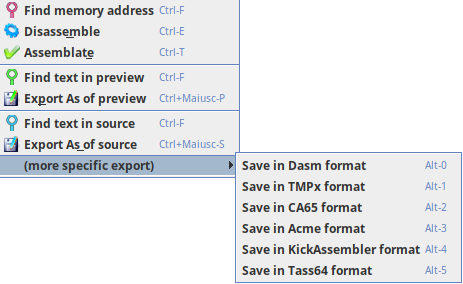
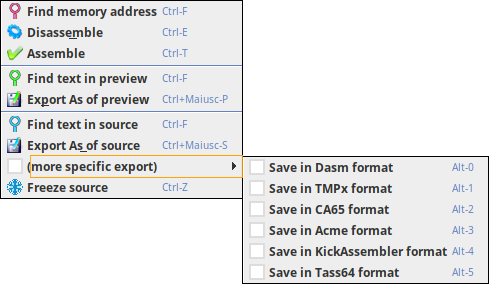
Fix and complete freeze

diff --git a/src/sw_emulator/swing/help/source.html b/src/sw_emulator/swing/help/source.html
@@ -39,12 +39,24 @@
  
  <h2>Find text in source</h2>
  <p>It opens a standard windows for inserting a text and find it inside the preview area. It has many option, like mark up all match, go backward and forward, match regular expression, whole word and lower/upper case.</p>
- <p align="center"><img src="./source4.png"></p>  
+   
  
  <h2>Export As of source</h2>
  <p> Export the actual preview source into a file.<br>
      You can even export as another assembler format by choosing the right one you need into sub-menus.
  </p>
+ 
+ <h2>Freeze source</h2>
+ <p> Le you make a freezed copy of the actual source, modify it, and let it there for documentation. You are asket to add a name of a freezed image.</p>
+ <p align="center"><img src="./source5.png"></p>
+ <p>You can use those buttons: </p>
+ <ul>
+     <li><b>Freeze</b>: freezes the source with the current compiler.</li>
+     <li><b>Freeze with</b>: freezes the source with the selected compiler.</li>
+     <li><b>Assemble</b>: assembles the freezed source with the selected compiler to be sure it is right.</li>
+     <li><b>Delete</b>: delete the selected freezed image.</li>
+ </ul>
+      
    <hr>
    
   <p>  A little panel shows the percentage of reverse engineering you have reached in your analisis: 0% is not understand, 100% is full understand.</p> 

diff --git a/src/sw_emulator/swing/JFreezeFrame.java b/src/sw_emulator/swing/JFreezeFrame.java
@@ -81,6 +81,7 @@ public class JFreezeFrame extends javax.swing.JFrame {
       this.disassembly=disassembly;    
       this.option=option;
       
+      rSyntaxTextAreaSource.setText("");
       popolateTable();
     }
 
@@ -489,7 +490,7 @@ public class JFreezeFrame extends javax.swing.JFrame {
     
       try {
         PrintWriter out=new PrintWriter(inputFile);
-        out.write(disassembly.source);
+        out.write(source);
         out.flush();
         out.close();
       } catch (Exception e) {
@@ -511,13 +512,13 @@ public class JFreezeFrame extends javax.swing.JFrame {
       }
       
       String res=compiler.compile(inputFile, outputFile);
-      
-      option.assembler=actual;
     
       JTextArea textArea = new JTextArea(50, 50);
       textArea.setText(res);
       textArea.setEditable(false);
       JScrollPane scrollPane = new JScrollPane(textArea);
       JOptionPane.showMessageDialog(this, scrollPane, "Result of "+option.assembler.getName()+" compilatation", JOptionPane.INFORMATION_MESSAGE);
+            
+      option.assembler=actual;
     }
 }

diff --git a/src/sw_emulator/swing/JDisassemblerFrame.java b/src/sw_emulator/swing/JDisassemblerFrame.java
@@ -2987,6 +2987,7 @@ public class JDisassemblerFrame extends javax.swing.JFrame implements userAction
 
     jMenuSource.add(jMenuSub);
 
+    jMenuItem3.setAccelerator(javax.swing.KeyStroke.getKeyStroke(java.awt.event.KeyEvent.VK_Z, java.awt.event.InputEvent.CTRL_DOWN_MASK));
     jMenuItem3.setIcon(new javax.swing.ImageIcon(getClass().getResource("/sw_emulator/swing/icons/mini/freeze.png"))); // NOI18N
     jMenuItem3.setText("Freeze source");
     jMenuItem3.addActionListener(new java.awt.event.ActionListener() {
